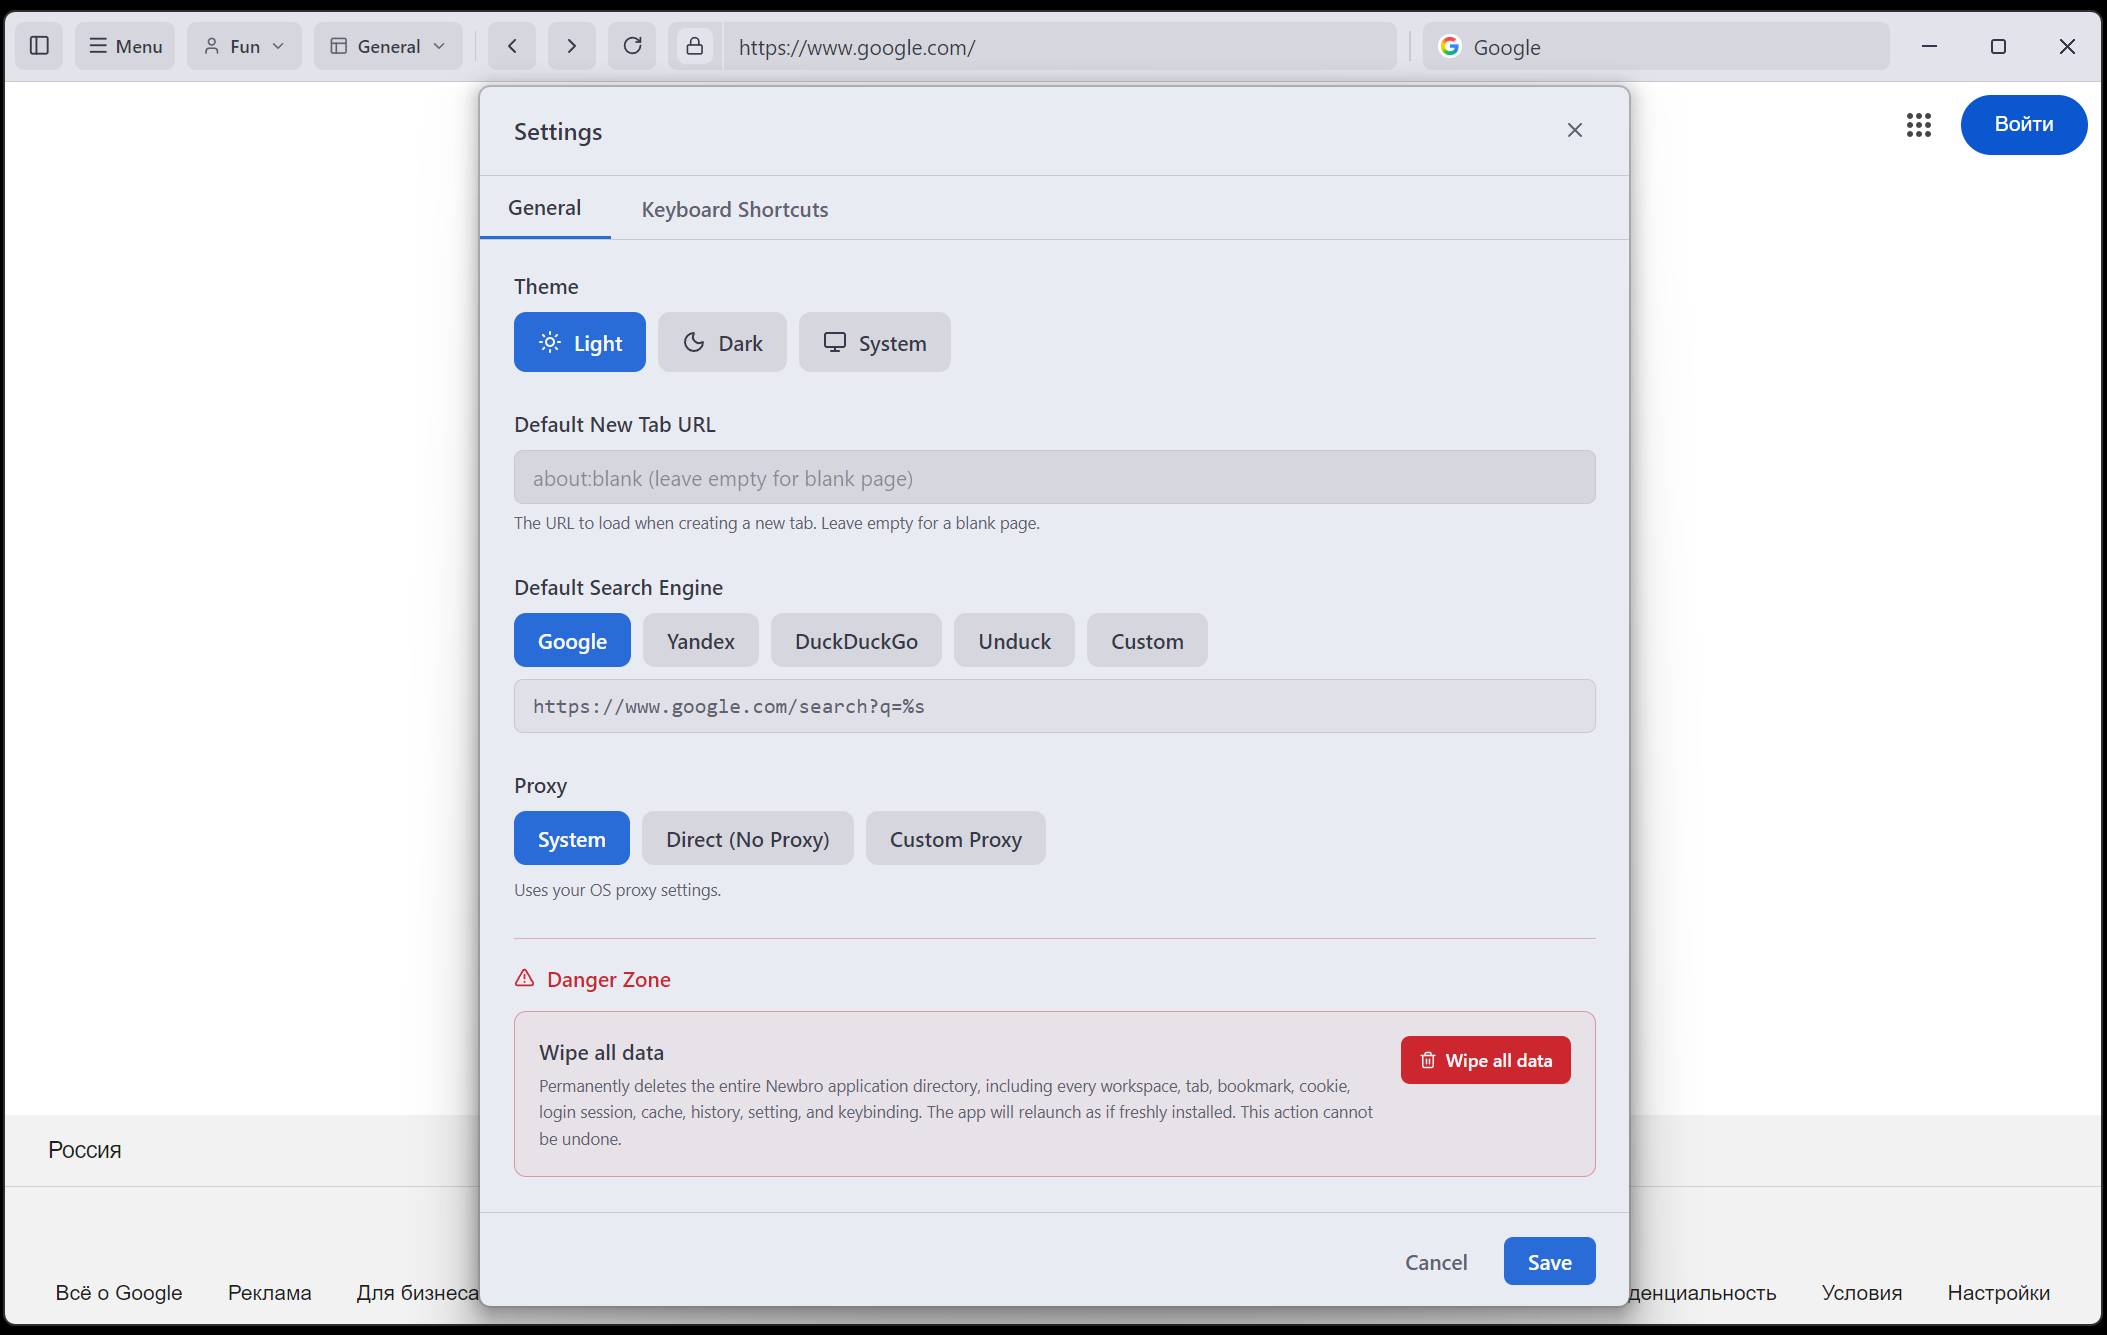
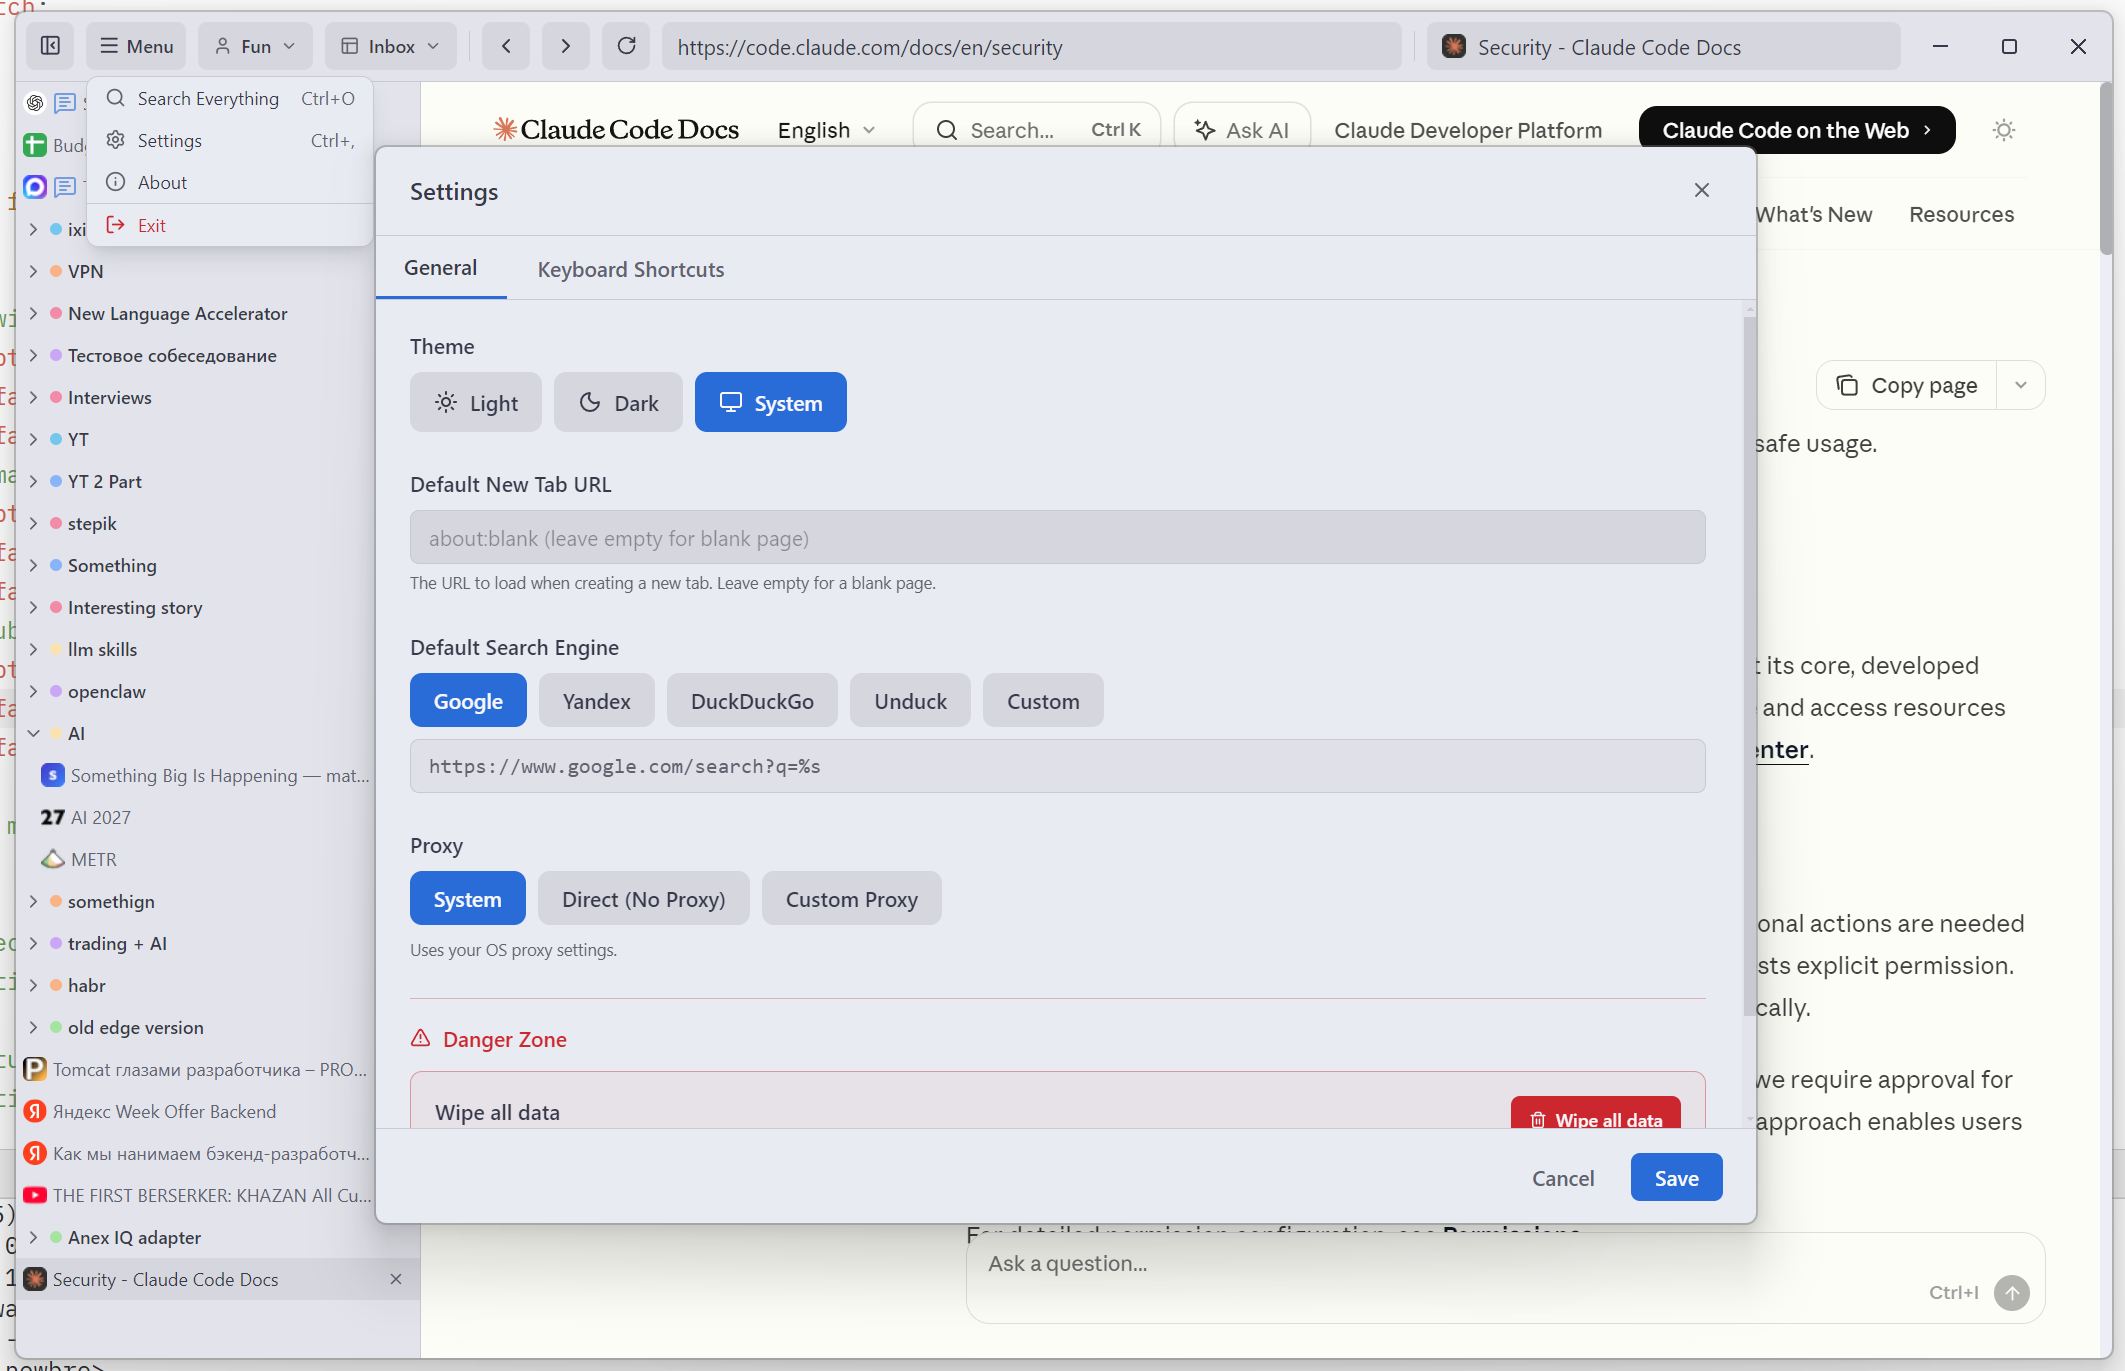
Updated README.md

diff --git a/README.md b/README.md
@@ -7,9 +7,10 @@ A workspace-based desktop browser built with Electron, React and TypeScript. Org
 ## Features
 
 - **Profiles** — separate session partitions keep cookies and logins isolated
-- **Workspaces** — switch between independent workspaces (work, personal, projects) from the top bar
+- **Workspaces** — switch between independent workspaces (work, personal, projects)
 - **Tab groups** — color-coded, collapsible groups with drag-and-drop reordering
-- **Command palette** — fuzzy-search all commands, tabs, groups and workspaces
+- **Search Everything** — fuzzy-search all profiles, workspaces, groups and tabs
+- **Command palette** — fuzzy-search all commands
 - **Tab comments** — annotate any tab with a short note
 - **Import workspace** — bring tab groups in from exported browser bookmarks
 
